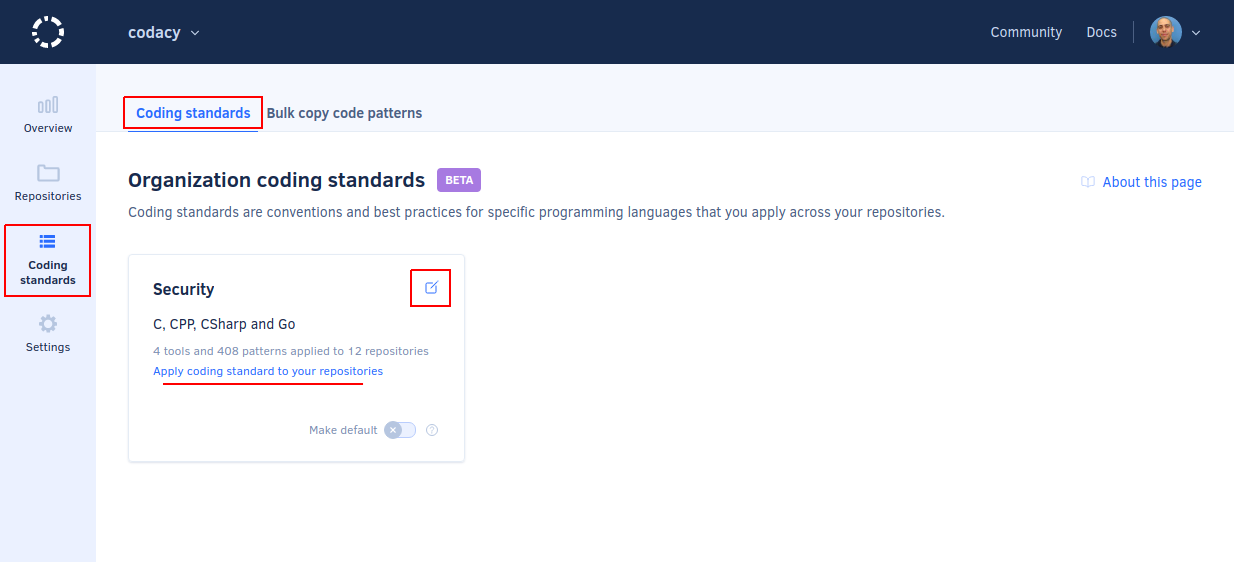
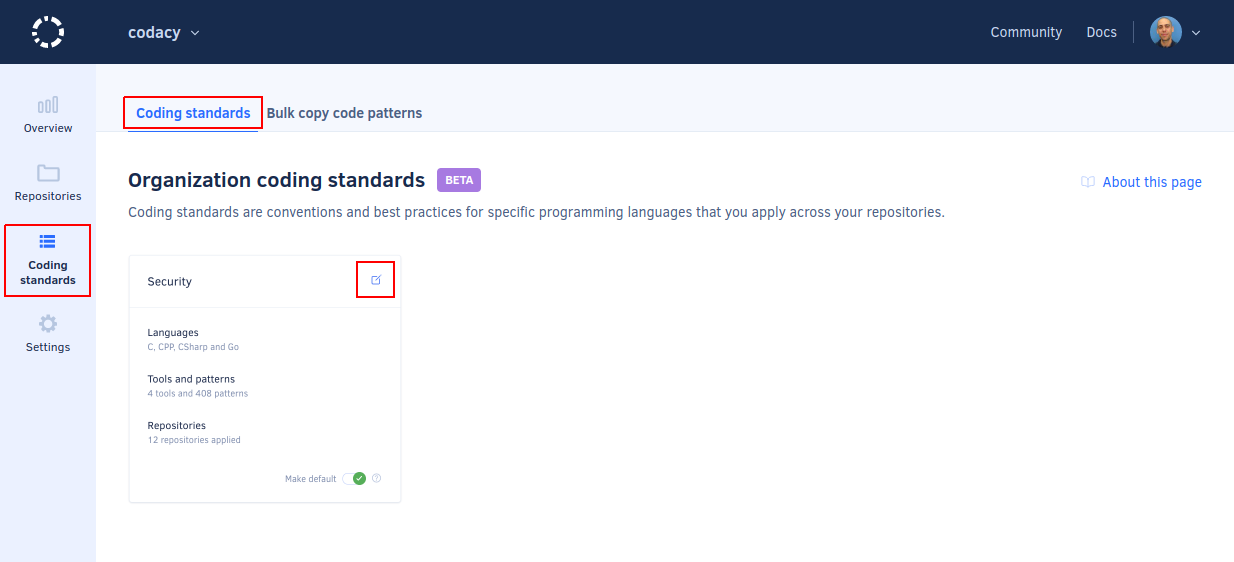
feat: Update screenshot and tweak wording

diff --git a/docs/organizations/using-a-coding-standard.md b/docs/organizations/using-a-coding-standard.md
@@ -68,7 +68,7 @@ To edit an existing coding standard or change the repositories that follow that 
 
 1.  Open your organization **Coding standards** page, tab **Coding standards**.
 
-1.  Click the edit icon on the coding standard card or, if you only want to apply an existing coding standard to a different set of repositories, click the link **Apply coding standard to your repositories** to navigate directly to the repository selection step.
+1.  Click the edit icon on the coding standard card.
 
     ![Editing an existing coding standard](images/coding-standard-edit.png)
 
